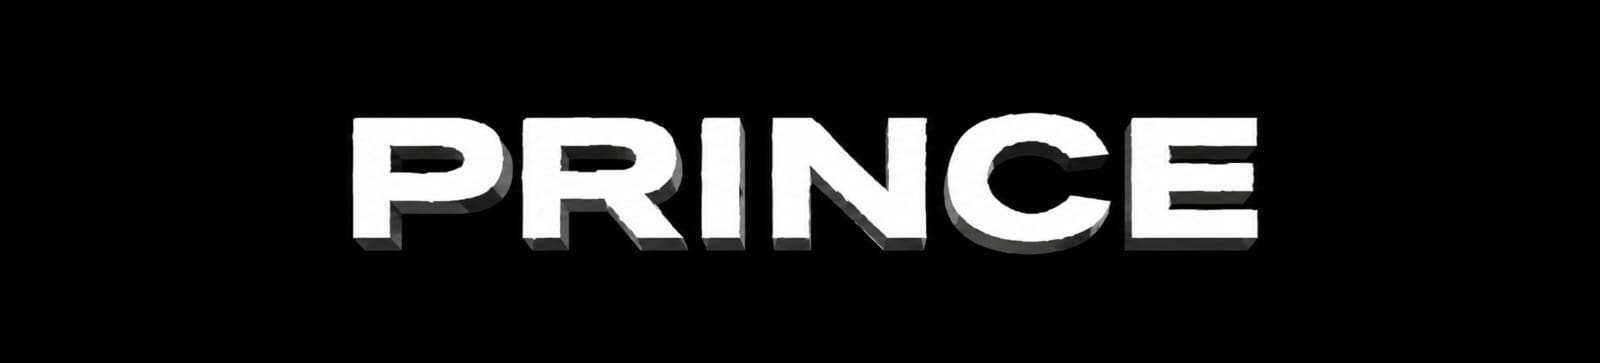
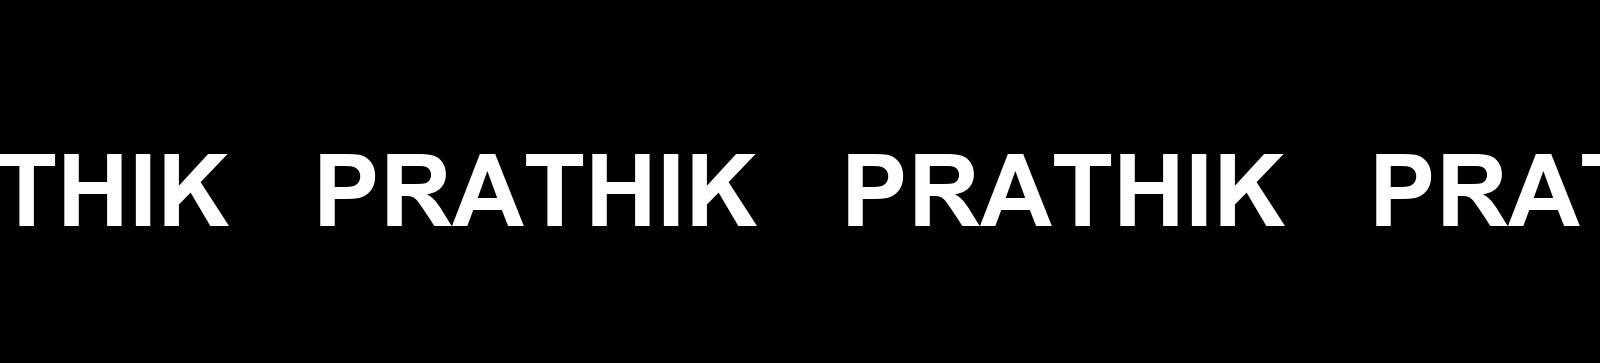
completely overhaul template face assets, lanyard text, and 3D card textures to represent Nag Prathik M G

Changed region(s): [[0.1875, 0.303, 0.8125, 0.697], [0.8438, 0.4242, 1.0, 0.6364], [0.0, 0.4242, 0.1562, 0.6364]]

diff --git a/src/components/BandCard.tsx b/src/components/BandCard.tsx
@@ -11,9 +11,11 @@ extend({ MeshLineGeometry, MeshLineMaterial });
 
 const GLTF_PATH = "/assets/cards.glb";
 const TEXTURE_PATH = "/assets/new.jpeg";
+const CARD_TEXTURE_PATH = "/assets/prince.png";
 
 useGLTF.preload(GLTF_PATH);
 useTexture.preload(TEXTURE_PATH);
+useTexture.preload(CARD_TEXTURE_PATH);
 
 function CursorLight() {
   const lightRef = useRef<THREE.PointLight>(null);
@@ -117,6 +119,9 @@ function Band({
   const texture = useTexture(TEXTURE_PATH);
   texture.wrapS = THREE.RepeatWrapping;
   texture.wrapT = THREE.RepeatWrapping;
+
+  const cardTexture = useTexture(CARD_TEXTURE_PATH);
+  cardTexture.flipY = false;
 
   const { width, height } = useThree((state) => state.size);
   const [curve] = useState(
@@ -248,6 +253,7 @@ function Band({
               <mesh geometry={nodes.card.geometry}>
                 <meshPhysicalMaterial
                   {...materials.base}
+                  map={cardTexture}
                   roughness={0.35}
                   metalness={0.1}
                   clearcoat={1}